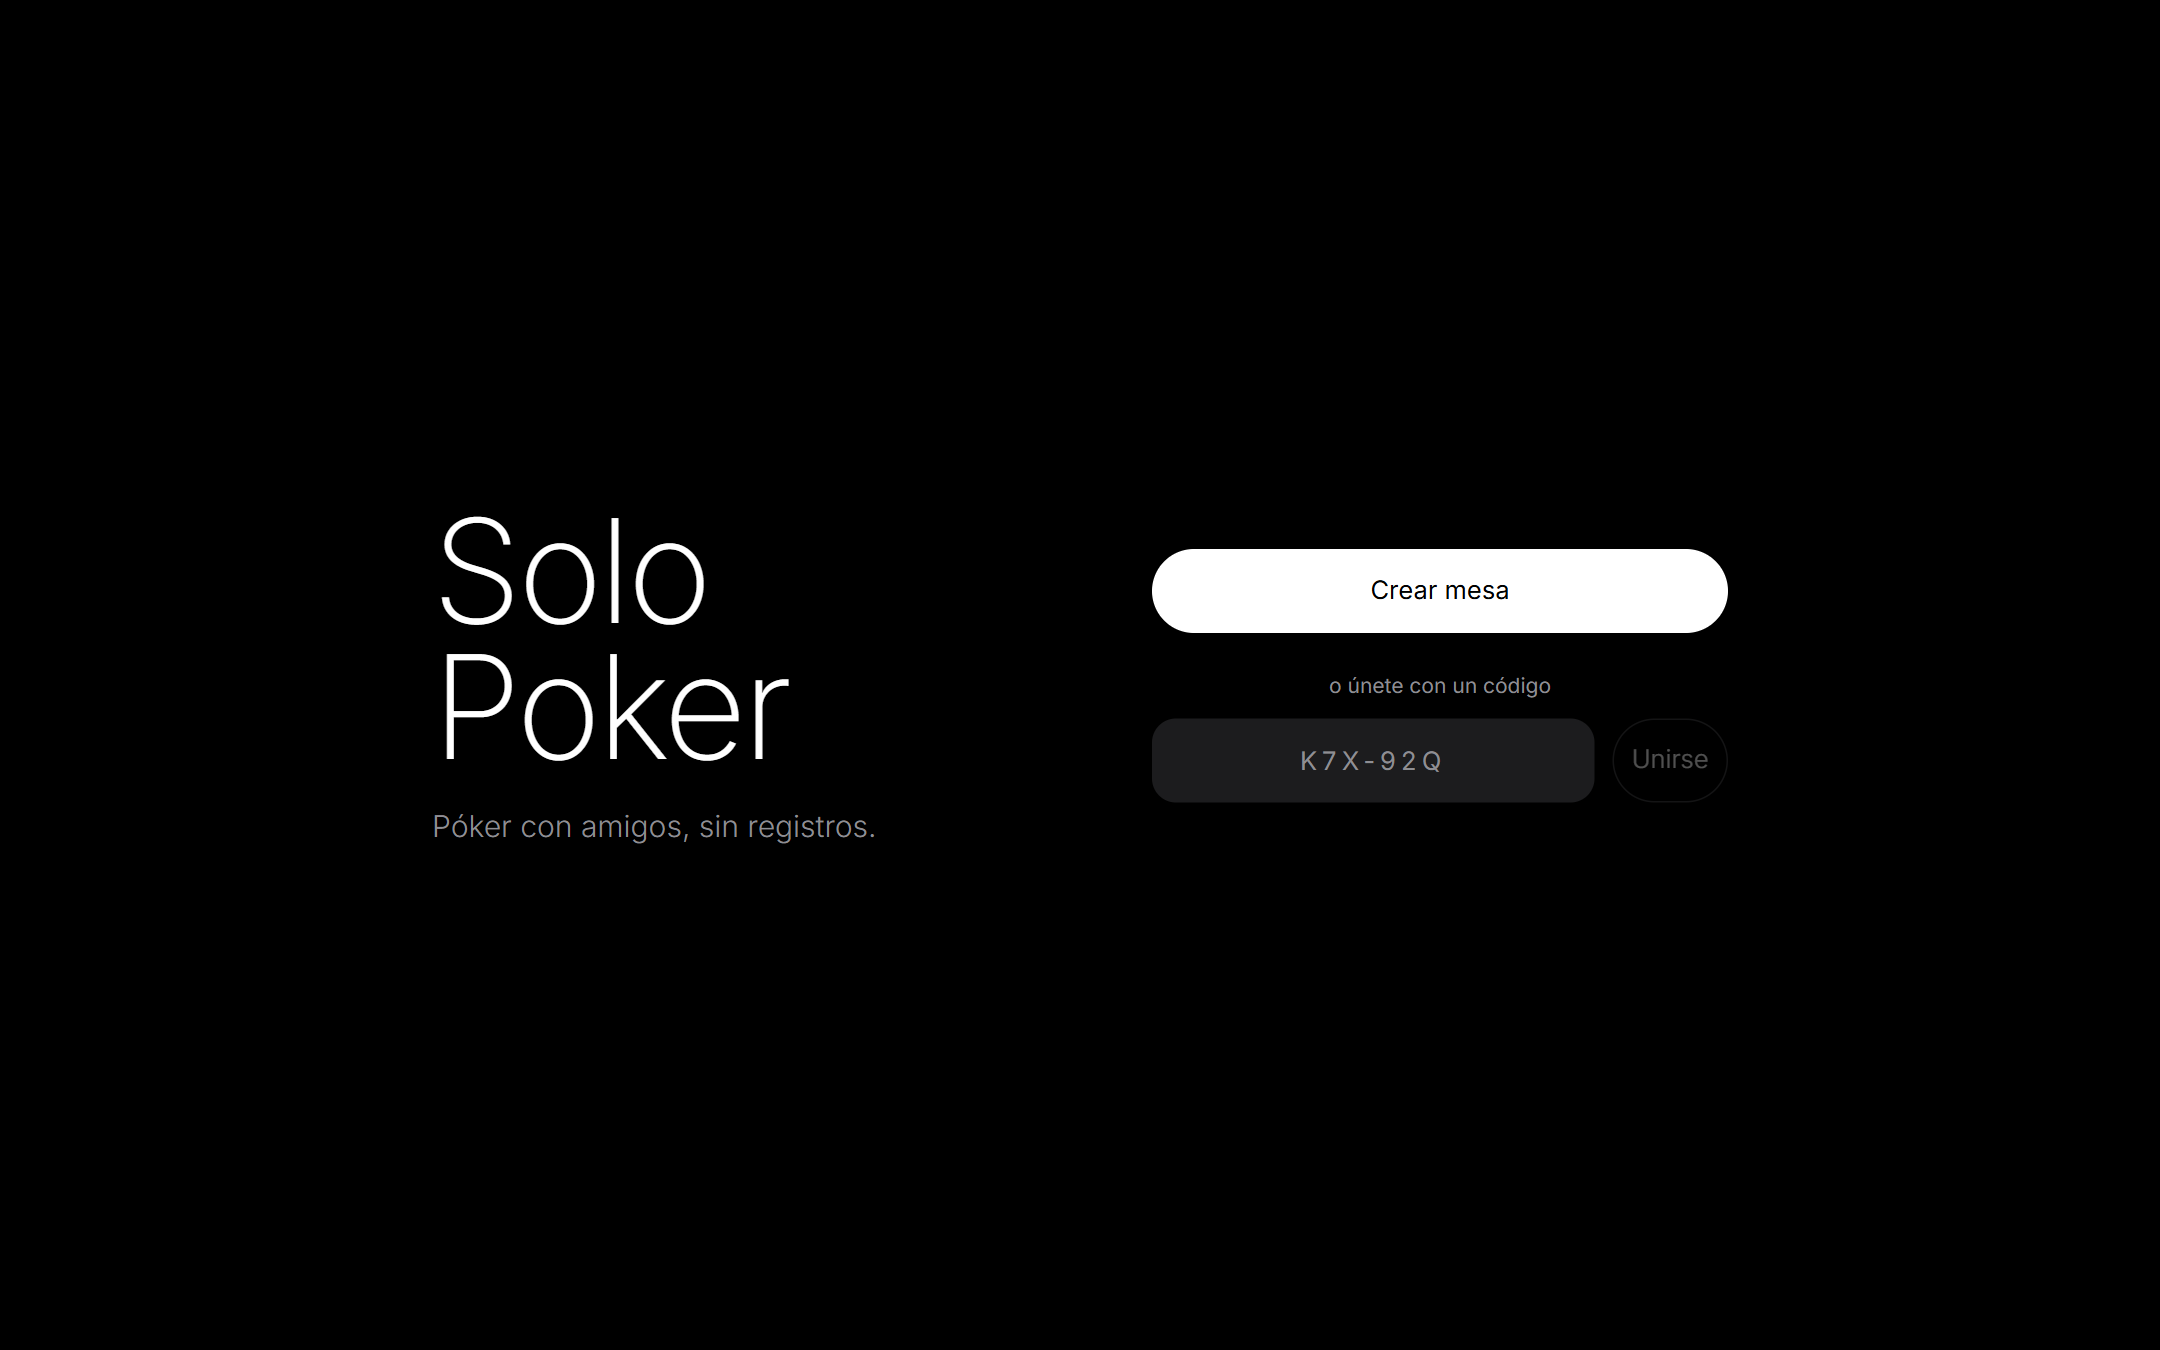
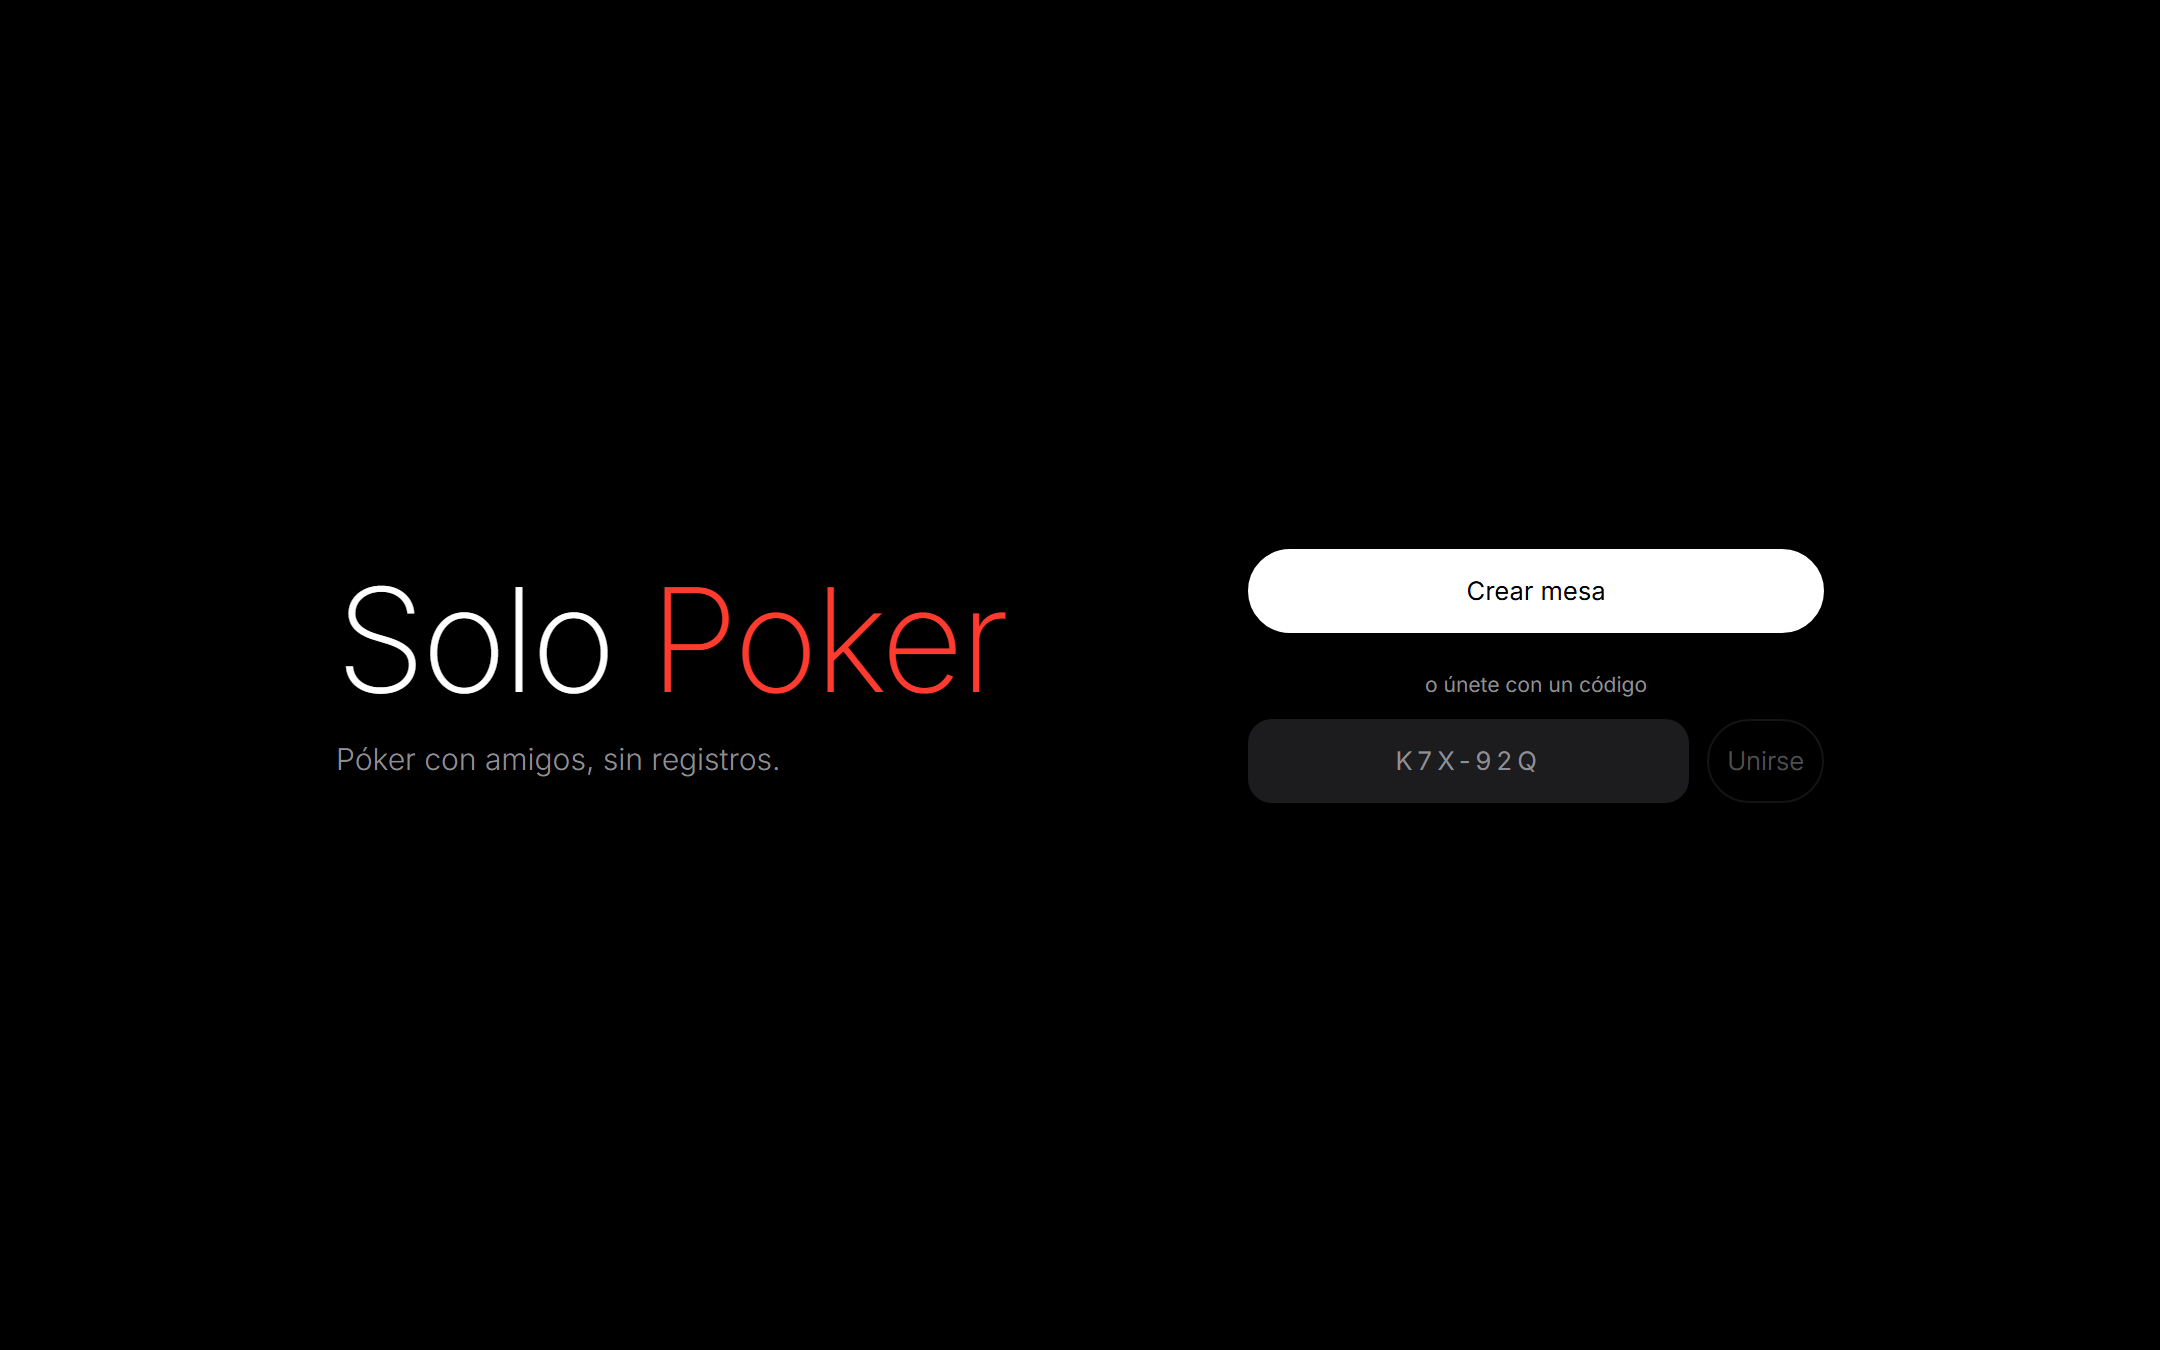
Título en una línea con Poker en rojo

diff --git a/apps/web/src/app/pages/home/home-page.ts b/apps/web/src/app/pages/home/home-page.ts
@@ -9,9 +9,11 @@ import { TableService } from '../../core/table.service';
   imports: [FormsModule, RouterLink],
   template: `
     <!-- En el móvil, una columna; en el ordenador, título a la izquierda y acciones a la derecha, centrado. -->
-    <main class="page justify-between gap-10 lg:max-w-4xl lg:flex-row lg:items-center lg:justify-center lg:gap-24">
+    <main class="page justify-between gap-10 lg:max-w-5xl lg:flex-row lg:items-center lg:justify-center lg:gap-24">
       <header class="pt-20 lg:flex-1 lg:pt-0">
-        <h1 class="text-6xl font-extralight leading-[0.95] tracking-tight lg:text-8xl">Solo<br />Poker</h1>
+        <h1 class="whitespace-nowrap text-6xl font-extralight leading-[0.95] tracking-tight lg:text-8xl">
+          Solo <span class="text-suit-red">Poker</span>
+        </h1>
         <p class="mt-3 text-lg font-light text-muted lg:mt-5 lg:text-xl">Póker con amigos, sin registros.</p>
       </header>
 
